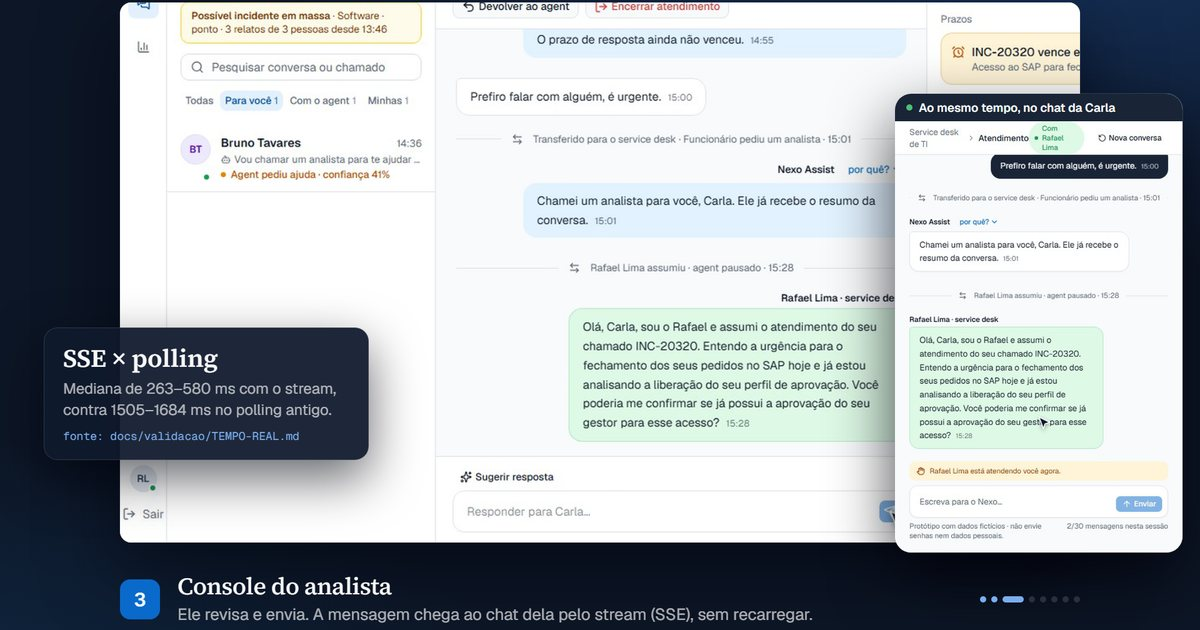
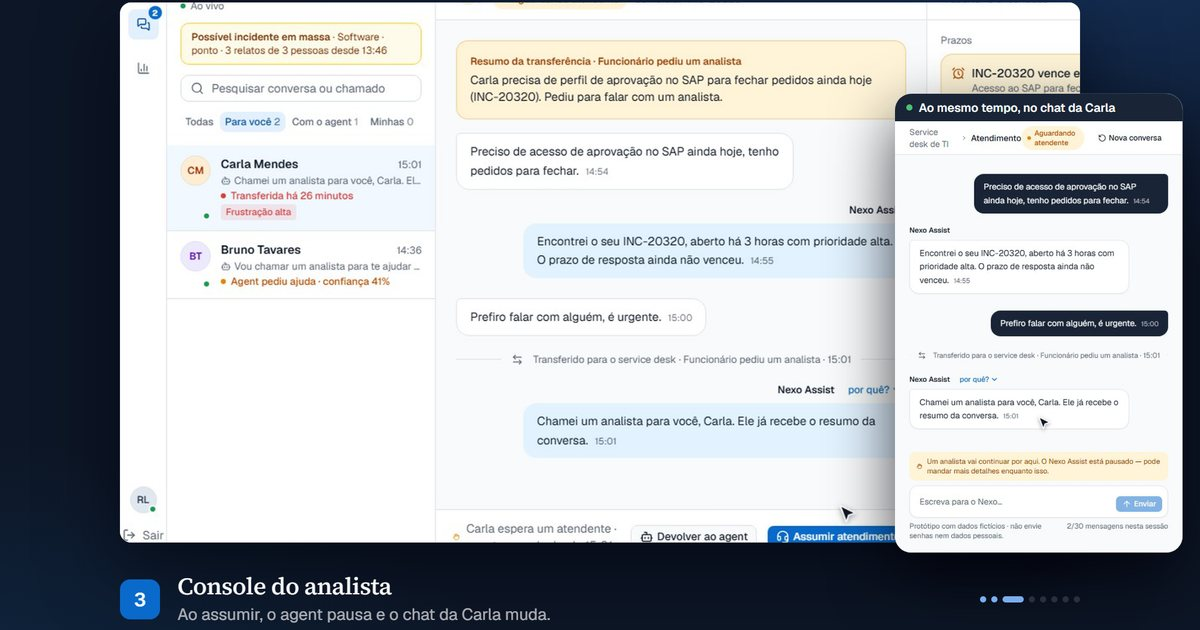
Social previews: seven-module og.png and the case-study frame (#12)
og.png is recaptured from the live home hero at 1200x630, the same
style as before, now after the projects chapter has raised all seven
modules. The M-07 Nexo Assist label is shown; the site fades it at
this width because it runs close to the side ruler. The title block
is hidden so M-07 is not covered. The image is quantized to 256
colours (383 KB, no visible banding). Its alt text in PT and EN now
says seven modules, Nexo Assist among them, instead of six.

The case studies already had their own og:title, og:description and
og:image. nexo-og.jpg is rebuilt from the new poster (frame 4170) at
1200x630, and its alt text describes that frame. All four pages also
name the image in twitter:image. The medicine wording is unchanged.

diff --git a/en/nexo-assist/index.html b/en/nexo-assist/index.html
@@ -20,8 +20,9 @@
 <meta property="og:image" content="https://skarl007.github.io/assets/shots/nexo-og.jpg">
 <meta property="og:image:width" content="1200">
 <meta property="og:image:height" content="630">
-<meta property="og:image:alt" content="The Nexo Assist analyst console next to the employee's chat, with the message arriving over the SSE stream">
+<meta property="og:image:alt" content="The Nexo Assist analyst console next to the employee's chat: when the analyst takes over, the agent pauses and her chat changes right away">
 <meta name="twitter:card" content="summary_large_image">
+<meta name="twitter:image" content="https://skarl007.github.io/assets/shots/nexo-og.jpg">
 <link rel="icon" href="../../assets/favicon.svg" type="image/svg+xml">
 <link rel="preconnect" href="https://fonts.googleapis.com">
 <link rel="preconnect" href="https://fonts.gstatic.com" crossorigin>

diff --git a/nexo-assist/index.html b/nexo-assist/index.html
@@ -20,8 +20,9 @@
 <meta property="og:image" content="https://skarl007.github.io/assets/shots/nexo-og.jpg">
 <meta property="og:image:width" content="1200">
 <meta property="og:image:height" content="630">
-<meta property="og:image:alt" content="Console do analista do Nexo Assist ao lado do chat da funcionária, com a mensagem chegando pelo stream SSE">
+<meta property="og:image:alt" content="Console do analista do Nexo Assist ao lado do chat da funcionária: ao assumir a conversa, o agente pausa e o chat dela muda na hora">
 <meta name="twitter:card" content="summary_large_image">
+<meta name="twitter:image" content="https://skarl007.github.io/assets/shots/nexo-og.jpg">
 <link rel="icon" href="../assets/favicon.svg" type="image/svg+xml">
 <link rel="preconnect" href="https://fonts.googleapis.com">
 <link rel="preconnect" href="https://fonts.gstatic.com" crossorigin>

diff --git a/index.html b/index.html
@@ -20,8 +20,9 @@
 <meta property="og:image" content="https://skarl007.github.io/assets/og.png">
 <meta property="og:image:width" content="1200">
 <meta property="og:image:height" content="630">
-<meta property="og:image:alt" content="Planta técnica em 3D com seis módulos de projetos e o calendário de contribuições">
+<meta property="og:image:alt" content="Planta técnica em 3D com os sete módulos de projetos, entre eles o Nexo Assist, erguidos pelos agentes, ao lado do nome e do cargo">
 <meta name="twitter:card" content="summary_large_image">
+<meta name="twitter:image" content="https://skarl007.github.io/assets/og.png">
 <link rel="icon" href="assets/favicon.svg" type="image/svg+xml">
 <link rel="preconnect" href="https://fonts.googleapis.com">
 <link rel="preconnect" href="https://fonts.gstatic.com" crossorigin>

diff --git a/en/index.html b/en/index.html
@@ -20,8 +20,9 @@
 <meta property="og:image" content="https://skarl007.github.io/assets/og.png">
 <meta property="og:image:width" content="1200">
 <meta property="og:image:height" content="630">
-<meta property="og:image:alt" content="A 3D technical blueprint with six project modules and the contribution calendar">
+<meta property="og:image:alt" content="A 3D technical blueprint with the seven project modules, Nexo Assist among them, raised by the agents, next to the name and role">
 <meta name="twitter:card" content="summary_large_image">
+<meta name="twitter:image" content="https://skarl007.github.io/assets/og.png">
 <link rel="icon" href="../assets/favicon.svg" type="image/svg+xml">
 <link rel="preconnect" href="https://fonts.googleapis.com">
 <link rel="preconnect" href="https://fonts.gstatic.com" crossorigin>
